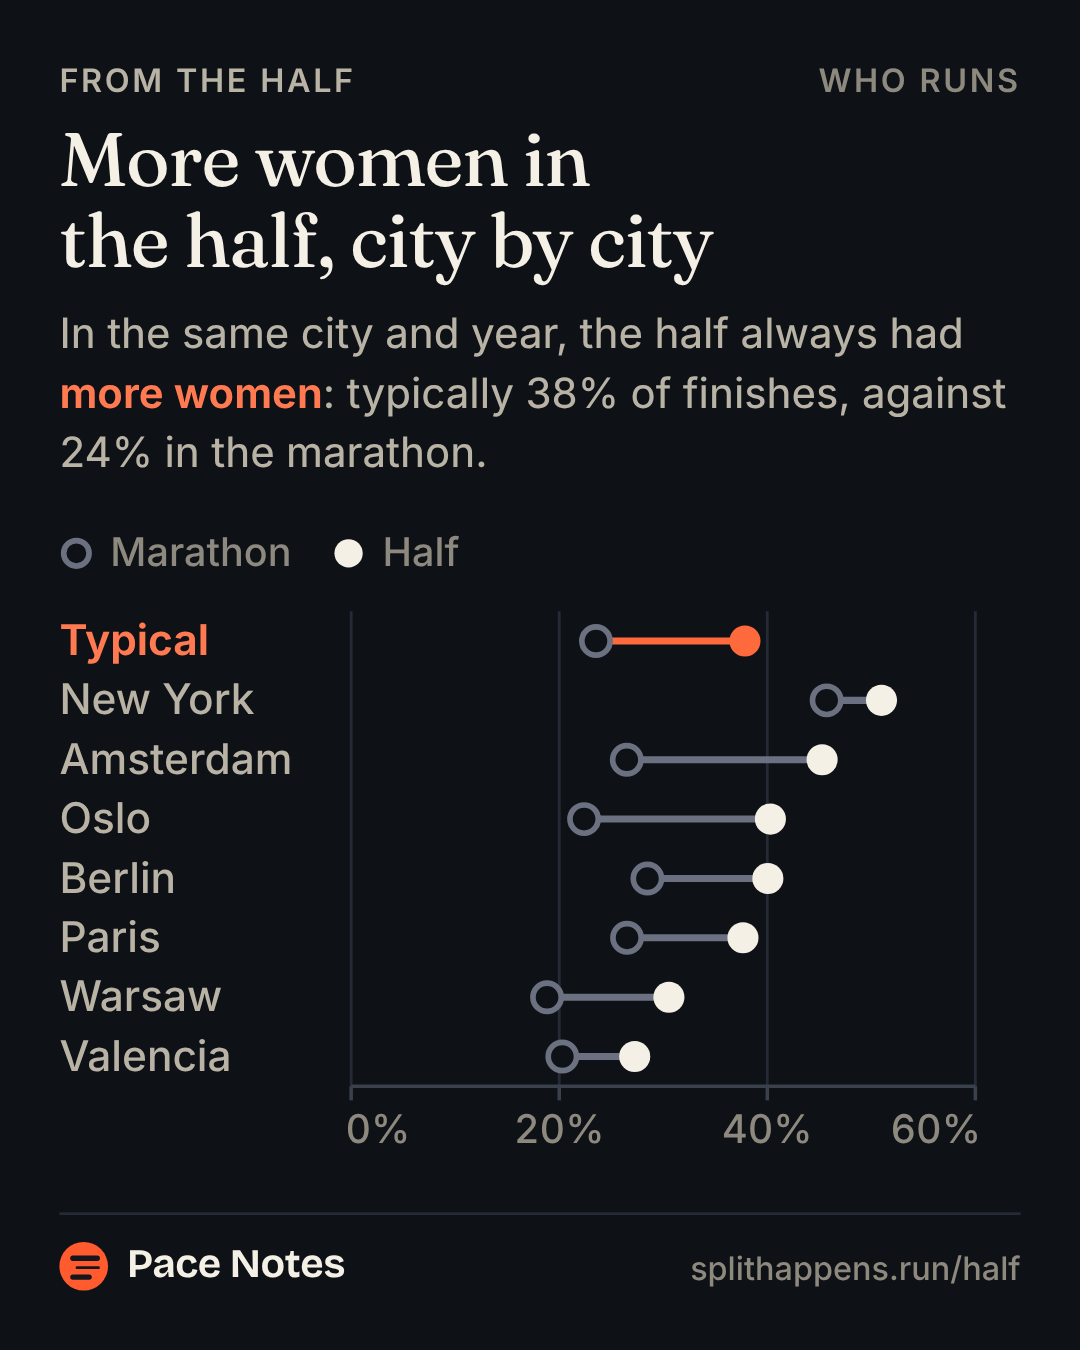
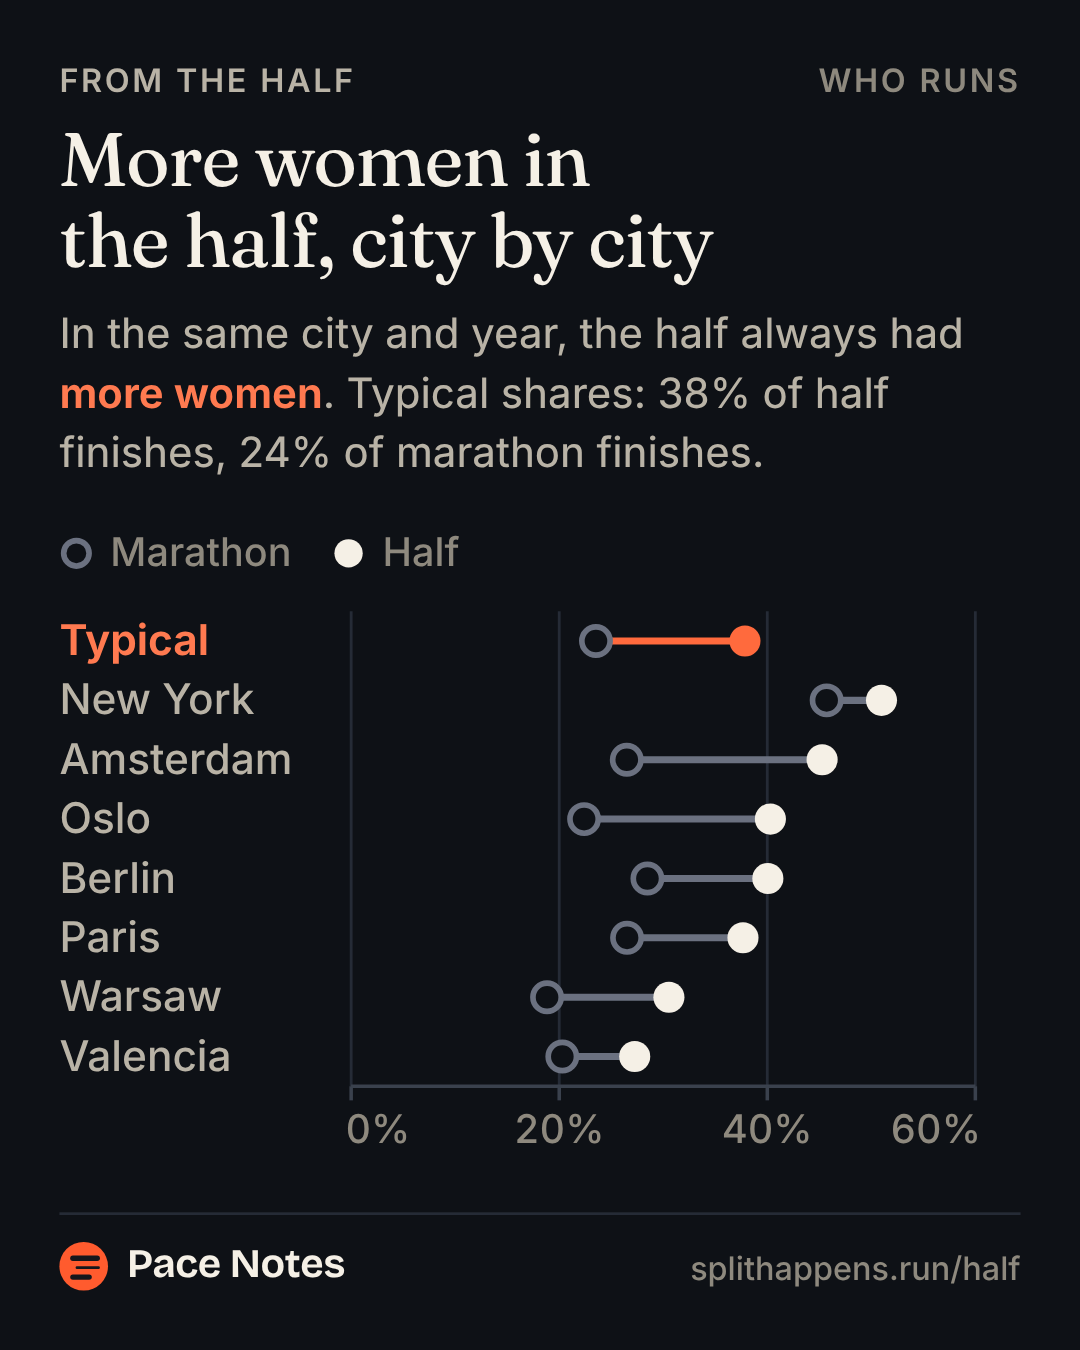
Half marathon: the same-half card lights the women's share; the cities card words two medians
On half-same-half the orange was the 1:45 row's line ending in a filled dot at the men's 30%, while the
takeaway printed the women's 10% in orange. The plot now draws the recorded men's share as the ring and the
women's as the filled dot, so the signal row's orange dot is the 10% the takeaway names (the page's guess
lights the women's answer the same way). half-more-women's takeaway words its two medians as two ("Typical
shares: 38% of half finishes, 24% of marathon finishes."), since no one city and year has that pair.
cards.json is rebuilt (only that plot's a/b and the manifest change), the four cards are re-stamped, the
captions regenerated and the local source recount is fresh (16,816 values, 0 mismatches).

Claude-Session: https://claude.ai/code/session_01WcW4bqd5kAAfXNmRYa36hX

Changed region(s): [[0.0611, 0.28, 0.9472, 0.3733]]

diff --git a/lib/charts/text/half.ts b/lib/charts/text/half.ts
@@ -68,7 +68,8 @@ export const HALF_CARD_TEXT: Record<HalfCardSlug, HalfCardText> = {
       return {
         guard,
         title: 'More women in the half, city by city',
-        headline: `In the same city and year, the half always had *more women*: typically ${pct(half)} of finishes, against ${pct(marathon)} in the marathon.`,
+        // Two medians across the pairs, worded as two (no one city and year has that pair), as the page's dek says them.
+        headline: `In the same city and year, the half always had *more women*. Typical shares: ${pct(half)} of half finishes, ${pct(marathon)} of marathon finishes.`,
         titleFallback: 'Women in the half and the marathon, by city',
         fallback: "Women's share of half and marathon finishes in the same city and year.",
       };

diff --git a/analysis/half_cards.py b/analysis/half_cards.py
@@ -11,8 +11,10 @@ What each plot draws, as the pages draw it:
   page's key), under a signal row "Typical" at the two medians the takeaway quotes;
 - `half-double`: a waffle of the marathons under double the half (signal) and those within 20 minutes over it (ink), so
   the lit squares stop near the typical marathon's double plus 21 minutes;
-- `half-same-half`: a dumbbell of recorded women's and men's sustained-slowdown shares at four half bands, the
-  flagship's band (the 5-minute band nearest the pooled median half, as lib/nuggets/half.ts picks it) the signal row.
+- `half-same-half`: a dumbbell of recorded men's (the hollow ring) and women's (the filled dot) sustained-slowdown
+  shares at four half bands, the flagship's band (the 5-minute band nearest the pooled median half, as
+  lib/nuggets/half.ts picks it) the signal row. The dumbbell form lights its filled dot, so the signal lands on the
+  women's share the takeaway prints in orange, as the story's guess lights the women's answer (round 2 review).
 """
 from __future__ import annotations
 
@@ -63,7 +65,7 @@ def build(field: dict, women: dict, linked: dict) -> dict:
         f, m = window(linked, 'F', h), window(linked, 'M', h)
         if f is None or m is None:
             continue
-        rows.append({'label': label(h), 'a': f['sus'], 'b': m['sus'], **({'tone': 'signal'} if h == flagship else {})})
+        rows.append({'label': label(h), 'a': m['sus'], 'b': f['sus'], **({'tone': 'signal'} if h == flagship else {})})
         values[f'F_{h}'] = f['sus']
         values[f'M_{h}'] = m['sus']
     if len(rows) < 2:
@@ -91,7 +93,7 @@ def build(field: dict, women: dict, linked: dict) -> dict:
          'source': {'file': 'linked.json', 'path': 'overall.under_double_plus_min.0'}},
         {'slug': 'half-same-half', 'scope': 'linked',
          'plot': {'form': 'dumbbell', 'rows': rows, 'x': {'min': 0, 'max': 0.6, 'ticks': [0, 0.2, 0.4, 0.6], 'fmt': 'share'}, 'fmt': 'share',
-                  'a': 'Recorded women’s', 'b': 'Recorded men’s'},
+                  'a': 'Recorded men’s', 'b': 'Recorded women’s'},
          'values': values,
          'source': {'file': 'linked.json', 'path': 'windows.F[h].sus, windows.M[h].sus'}},
     ]

diff --git a/analysis/test_half.py b/analysis/test_half.py
@@ -558,6 +558,9 @@ class Cards(unittest.TestCase):
         same = cards['half-same-half']['plot']['rows']
         self.assertEqual([r['label'] for r in same], ['1:30', '1:45', '2:00'], 'a band needs both recorded sexes')
         self.assertEqual([r.get('tone') for r in same], [None, 'signal', None], 'the band nearest the pooled median half is the signal')
+        plot = cards['half-same-half']['plot']
+        self.assertEqual((plot['a'], plot['b']), ('Recorded men’s', 'Recorded women’s'), 'the women’s share is the filled dot the signal lights')
+        self.assertEqual((same[1]['a'], same[1]['b']), (0.3, 0.1), 'the ring at the men’s share, the dot at the women’s')
 
     def test_flagship_band_rounds_like_the_site(self):
         import half_cards

diff --git a/docs/HALF_MARATHON.md b/docs/HALF_MARATHON.md
@@ -1,6 +1,6 @@
 # Half marathons
 
-The half-marathon pages of Pace Notes (`/half`, the story `/stories/half-to-full`, the predictor's half panel, the goal pages' "The half before", the half pace chart's panel and four "From the half" cards) read the aggregates in `public/data/half/`. Those are built from a **private** half-marathon snapshot and a **private** build of links between half and marathon records, joined to the adopted marathon release through its public runner shards. This document is the contract: what is pinned, which rules decide what counts, what is published and how it is checked when CI cannot see the source. The operating steps are in [operations](OPERATIONS.md#half-refresh); the module list and commands in [analysis/README.md](../analysis/README.md#half-marathons-private-source-aggregates-only); the page and tool contracts in [the website architecture](WEBSITE_ARCHITECTURE.md), [tools](TOOLS.md) and [stories](STORIES.md).
+The half-marathon pages of Pace Notes (`/half`, the story `/stories/half-to-full`, the predictor's half panel, the goal pages' "The half marathon before", the half pace chart's panel and four "From the half" cards) read the aggregates in `public/data/half/`. Those are built from a **private** half-marathon snapshot and a **private** build of links between half and marathon records, joined to the adopted marathon release through its public runner shards. This document is the contract: what is pinned, which rules decide what counts, what is published and how it is checked when CI cannot see the source. The operating steps are in [operations](OPERATIONS.md#half-refresh); the module list and commands in [analysis/README.md](../analysis/README.md#half-marathons-private-source-aggregates-only); the page and tool contracts in [the website architecture](WEBSITE_ARCHITECTURE.md), [tools](TOOLS.md) and [stories](STORIES.md).
 
 ## Status (October 30, 2026)
 
@@ -152,7 +152,7 @@ The production builder's output is canonical. Values that differ from the build 
 - **All 310 verified editions weighted equally: 63.4% under 2:00, not 64.1%.** The specification's 64.1% is the mean of the editions' shares (its own note gives the median, 63.4%); the builder publishes the median, as for the editions of at least 1,000 finishes.
 - **Norway's share of verified finishes: 11.8%, not 11.5%.** The audit's rule-derived country put Holmestrand Maraton Half and Stavanger Marathon Half (six editions, 0.3% of verified finishes) in Denmark by their result host; the policy's reviewed label map puts them in Norway.
 - **One pair per person, under 4:00 after a 1:45 half: 67.0%, not 67.1%.** The specification's check kept each person's latest pair within the 1:45 window (2,435 pairs); the builder keeps each person's latest pair overall (20,234 pairs, the battery member's definition) and then takes the window.
-- **The cards' plots** draw more than the specification's sketch (same values, from the same files): `half-more-women` puts the marathon as the ring and the half as the dot (the page's key) under a "Typical" row at the two medians; `half-double` shows the marathons within 20 minutes over double as a second part (39.9%); `half-same-half` marks the flagship's 1:45 band as the signal row; `half-under-2` carries the recorded women's and men's shares its takeaway quotes.
+- **The cards' plots** draw more than the specification's sketch (same values, from the same files): `half-more-women` puts the marathon as the ring and the half as the dot (the page's key) under a "Typical" row at the two medians; `half-double` shows the marathons within 20 minutes over double as a second part (39.9%); `half-same-half` marks the flagship's 1:45 band as the signal row, the recorded men's share the ring and the women's the filled dot (so the orange mark is the women's share its takeaway prints in orange; round 2 review, October 30, 2026); `half-under-2` carries the recorded women's and men's shares its takeaway quotes.
 
 ## For the producer
 

diff --git a/docs/TOP_100_CHARTS.md b/docs/TOP_100_CHARTS.md
@@ -56,9 +56,9 @@ Four cards outside the hundred, from the half-marathon pages ([half marathons](H
 | Card | Page | Scope | Draws |
 | --- | --- | --- | --- |
 | `half-under-2` "Just over half broke 2:00" | `/half` | verified | a waffle of the half finishes under 2:00 (56%); the takeaway adds the recorded women's and men's shares |
-| `half-more-women` "More women in the half, city by city" | `/half` | verified | a dumbbell of the same-city, same-year pairs by city, the marathon as the ring and the half as the dot, under a signal row "Typical" at the two medians |
+| `half-more-women` "More women in the half, city by city" | `/half` | verified | a dumbbell of the same-city, same-year pairs by city, the marathon as the ring and the half as the dot, under a signal row "Typical" at the two medians (the takeaway words them as two: "Their share of finishes was typically 38% in the half and 24% in the marathon.") |
 | `half-double` "Double the half, plus 21 minutes" | `/stories/half-to-full` | linked | a waffle of the marathons under double the half (8%, signal), within 20 minutes over it (40%) and the rest |
-| `half-same-half` "Same half, fewer sustained slowdowns for women" | `/stories/half-to-full` | linked | a dumbbell of recorded women's and men's sustained-slowdown shares after halves near 1:30, 1:45, 2:00 and 2:15, the 1:45 band the signal row |
+| `half-same-half` "Same half, fewer sustained slowdowns for women" | `/stories/half-to-full` | linked | a dumbbell of recorded men's (the ring) and women's (the dot) sustained-slowdown shares after halves near 1:30, 1:45, 2:00 and 2:15, the 1:45 band the signal row, so its orange dot is the women's share the takeaway names |
 
 - **Data:** `public/data/half/cards.json` (`analysis/half_cards.py`; recounted by `scripts/verify-half-source.cjs` and checked against its family files by `scripts/verify-half.cjs`).
 - **Words:** `lib/charts/text/half.ts`, a registry of its own (`HALF_CARD_TEXT`, read through `halfCardWords`). Each guard is the page's nugget guard plus the card's own checks, so a card falls back exactly when its page does; `verify-half` holds the words to the rules above (titles ≤ 47 characters, one accent, the banned words) and requires "records linked by name" in a linked card's takeaway and nowhere else.

diff --git a/docs/CHARTS_INSTAGRAM.md b/docs/CHARTS_INSTAGRAM.md
@@ -618,7 +618,7 @@ The half marathon on Pace Notes: splithappens.run/half
 
 `half-more-women.png`
 
-In the same city and year, the half always had more women: typically 38% of finishes, against 24% in the marathon.
+In the same city and year, the half always had more women. Typical shares: 38% of half finishes, 24% of marathon finishes.
 
 The half marathon on Pace Notes: splithappens.run/half
 
